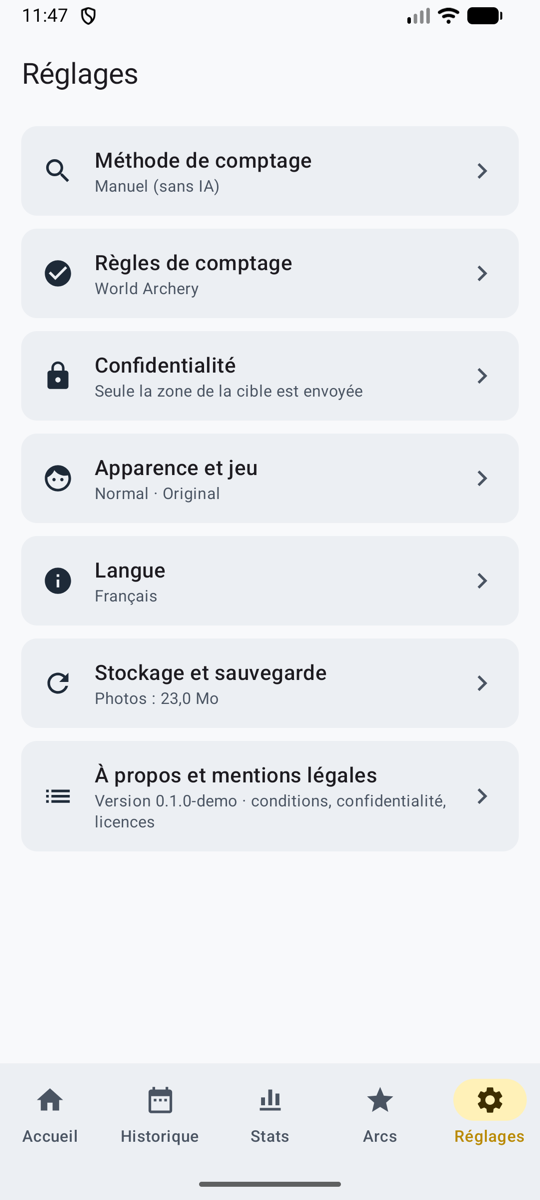
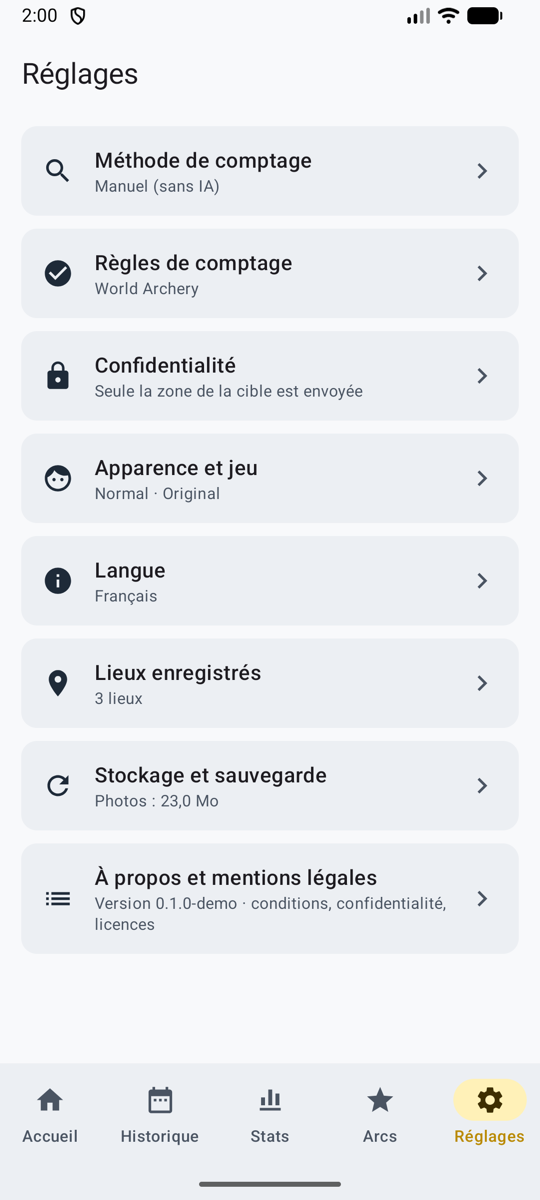
Update Ullr site from ullr@d5cdc06

diff --git a/ullr/docs/sessions.fr.md b/ullr/docs/sessions.fr.md
@@ -17,7 +17,7 @@ Une séance, c’est une visite au pas de tir : un lieu, une date, un arc et une
 
 Dans l’onglet **Accueil**, touchez **Commencer une séance**, puis remplissez :
 
-- **Lieu** : tapez-en un nouveau, ou choisissez-en un déjà utilisé.
+- **Lieu** : tapez-en un nouveau, ou choisissez-en un déjà utilisé. Pour corriger une faute de frappe, réunir deux noms du même terrain ou en retirer un, voir [Lieux enregistrés](#lieux-enregistres).
 - **Date** : maintenant, par défaut.
 - **Discipline** : tir sur cible (par défaut), tir en campagne, tir 3D ou para-tir à l’arc.
 - **Type d’arc** (arc nu, arc recourbé ou arc à poulies, chacun avec son petit dessin) et **arc**. Les valeurs par défaut de l’arc remplissent le reste. Voir [Arcs](bows.md).
@@ -42,3 +42,13 @@ Avec le comptage automatique, pas besoin d’attendre : tirez la volée suivante
 - **Supprimer cette séance** l’efface, après confirmation.
 
 Une séance en cours apparaît dans l’onglet **Accueil** avec **Reprendre**. Si l’application se ferme pendant une séance, rien n’est perdu.
+
+## Lieux enregistrés
+
+![Lieux enregistrés : chaque lieu avec son nombre de séances et la date de sa dernière utilisation, avec un crayon pour le renommer et une corbeille pour le supprimer.](images/screenshots/fr/places.png){ .shot width="220" align=right }
+
+**Réglages → Lieux enregistrés** liste tous les lieux que vous avez saisis, du plus récent au plus ancien, avec le nombre de séances qui y ont eu lieu.
+
+- **Renommer** (le crayon, ou touchez le lieu) : corrige une faute de frappe partout à la fois, puisque toutes les séances qui y ont eu lieu suivent.
+- **Fusionner** : donnez à un lieu le nom d’un autre (*terrain du club* et *Terrain du club*, par exemple). Ullr vous le dit d’abord, et le bouton devient **Fusionner**. Les séances des deux se retrouvent sous un seul nom.
+- **Supprimer** (la corbeille), après confirmation : le lieu quitte la liste, et les séances qui y ont eu lieu sont conservées, sans lieu.

diff --git a/ullr/docs/sessions.md b/ullr/docs/sessions.md
@@ -17,7 +17,7 @@ A session is one visit to the range: a place, a date, a bow and a round, and the
 
 On the Dashboard, tap **Start session** (*Commencer une séance*), then fill in:
 
-- **Location** (*Lieu*): type a new one, or pick one you used before.
+- **Location** (*Lieu*): type a new one, or pick one you used before. To fix a typo, merge two names for the same range, or remove one, see [Saved places](#saved-places).
 - **Date**: now by default.
 - **Discipline**: target archery (the default), field archery, 3D archery or para archery.
 - **Bow type** (barebow, recurve bow or compound bow, each with its small drawing) and **bow**. The bow's defaults fill in the rest. See [Bows](bows.md).
@@ -42,3 +42,13 @@ With automatic scoring you don't have to wait: shoot the next end while the prev
 - **Discard this session** (*Supprimer cette séance*) deletes it, after asking.
 
 A session in progress shows on the Dashboard with **Resume** (*Reprendre*). If the app is closed during a session, nothing is lost.
+
+## Saved places
+
+![Saved places: each place with its number of sessions and the date it was last used, with a pencil to rename it and a bin to delete it.](images/screenshots/places.png){ .shot width="220" align=right }
+
+**Settings → Saved places** (*Réglages → Lieux enregistrés*) lists every place you've typed, most recently used first, with how many sessions you shot there.
+
+- **Rename** (the pencil, or tap the place): fixes a typo everywhere at once, since every session shot there follows.
+- **Merge:** give a place the name of another one (*club field* and *Club Field*, say). Ullr says so first, and the button reads **Merge** (*Fusionner*). The sessions of both end up under one name.
+- **Delete** (the bin), after asking: the place leaves the list, and the sessions shot there are kept, with no place.

diff --git a/ullr/docs/roadmap.fr.md b/ullr/docs/roadmap.fr.md
@@ -11,6 +11,7 @@ Ullr est un projet personnel, construit au grand jour. Voici où il en est.
 - [x] Le comptage sans clé : partagez la photo avec l’application d’IA de votre téléphone et collez sa réponse
 - [x] Conditions d’utilisation et politique de confidentialité en français et en anglais, acceptées au premier lancement, avec les licences de logiciels libres, dans Réglages → À propos et mentions légales
 - [x] Effacer les données (toutes les séances, ou tout), et remettre à zéro l’expérience et les insignes depuis les trophées
+- [x] Renommer, fusionner et supprimer les lieux enregistrés, sans perdre aucune séance
 - [x] Le comptage manuel, sans IA : touchez chaque flèche sur la photo et choisissez sa zone, ou touchez les points sans photo
 - [x] Fonctionne sans réseau : les photos sont enregistrées et comptées plus tard, ou saisies à la main
 - [x] Tableau de bord, historique, feuille de marque et graphique des volées

diff --git a/ullr/docs/screenshots.fr.md b/ullr/docs/screenshots.fr.md
@@ -89,6 +89,10 @@ Prises avec **Ullr Demo**, une version de l'application remplie de six mois de s
 <figcaption><b>Confidentialité.</b> Exactement ce qui est envoyé, et l'option « zone de la cible seulement ».</figcaption>
 </figure>
 <figure markdown>
+![Lieux enregistrés : chaque lieu avec ses séances et sa dernière utilisation, un crayon pour renommer et une corbeille pour supprimer.](images/screenshots/fr/places.png){ .shot }
+<figcaption><b>Lieux enregistrés.</b> Renommer, fusionner ou supprimer; les séances restent.</figcaption>
+</figure>
+<figure markdown>
 ![À propos et mentions légales : l’application et sa version, puis les conditions d’utilisation avec leur date d’acceptation, la politique de confidentialité et les licences de logiciels libres.](images/screenshots/fr/about.png){ .shot }
 <figcaption><b>À propos et mentions légales.</b> Conditions, confidentialité et licences.</figcaption>
 </figure>

diff --git a/ullr/docs/normal.fr.md b/ullr/docs/normal.fr.md
@@ -38,6 +38,7 @@ Chaque page des réglages commence par une courte explication, puis ses choix.
 | **Confidentialité** | N’envoyer que la zone de la cible, et ce qui est envoyé. Voir [Confidentialité](privacy.md). |
 | **Apparence et jeu** | Mode normal ou jeu, le thème, les sons du jeu et la musique. Voir [Apparence et langue](look.md). |
 | **Langue** | Français, anglais, ou la langue du téléphone (Android 13 et plus récent). |
+| **Lieux enregistrés** | Renommer, fusionner ou supprimer les lieux de vos séances. Voir [Lieux enregistrés](sessions.md#lieux-enregistres). |
 | **Stockage et sauvegarde** | Espace utilisé, exporter, restaurer, libérer de l’espace. Voir [Stockage et sauvegarde](backup.md). |
 | **À propos et mentions légales** | La version, les [conditions d’utilisation](terms.md), la [politique de confidentialité](privacy-policy.md) et les [licences de logiciels libres](licences.md). |
 

diff --git a/ullr/docs/normal.md b/ullr/docs/normal.md
@@ -38,6 +38,7 @@ Each Settings page starts with a short explanation, then its choices.
 | **Privacy** (*Confidentialité*) | Send only the target area, and what is sent. See [Privacy](privacy.md). |
 | **Appearance and game** (*Apparence et jeu*) | Normal or game mode, the theme, game sound and music. See [Look and language](look.md). |
 | **Language** (*Langue*) | English, French, or the phone's language (Android 13 and later). |
+| **Saved places** (*Lieux enregistrés*) | Rename, merge or delete the places of your sessions. See [Saved places](sessions.md#saved-places). |
 | **Storage and backup** (*Stockage et sauvegarde*) | Space used, export, restore, free up space. See [Storage and backup](backup.md). |
 | **About and legal** (*À propos et mentions légales*) | The version, the [terms of use](terms.md), the [privacy policy](privacy-policy.md) and the [open-source licences](licences.md). |
 

diff --git a/ullr/docs/screenshots.md b/ullr/docs/screenshots.md
@@ -89,6 +89,10 @@ Taken with **Ullr Demo**, a version of the app filled with six months of made-up
 <figcaption><b>Privacy.</b> Exactly what is sent, and the target-only switch.</figcaption>
 </figure>
 <figure markdown>
+![Saved places: each place with its sessions and last use, a pencil to rename and a bin to delete.](images/screenshots/places.png){ .shot }
+<figcaption><b>Saved places.</b> Rename, merge or delete; sessions stay.</figcaption>
+</figure>
+<figure markdown>
 ![About and legal: the app and its version, then the terms of use with the date they were accepted, the privacy policy and the open-source licences.](images/screenshots/about.png){ .shot }
 <figcaption><b>About and legal.</b> Terms, privacy policy and licences.</figcaption>
 </figure>

diff --git a/ullr/docs/roadmap.md b/ullr/docs/roadmap.md
@@ -11,6 +11,7 @@ Ullr is a personal project, built in the open. Here's where it stands.
 - [x] Scoring without a key: share the photo with the AI app on your phone and paste its answer
 - [x] Terms of use and privacy policy in French and English, accepted at first launch, with the open-source licences, in Settings → About and legal
 - [x] Erase data (all sessions, or everything), and reset experience and badges from the trophies
+- [x] Rename, merge and delete saved places, keeping every session
 - [x] Manual scoring, with no AI: tap each arrow on the photo and pick its ring, or tap the scores without a photo
 - [x] Works without signal: photos are saved and scored later, or scored by hand
 - [x] Dashboard, history, scoresheet and score-by-end chart
